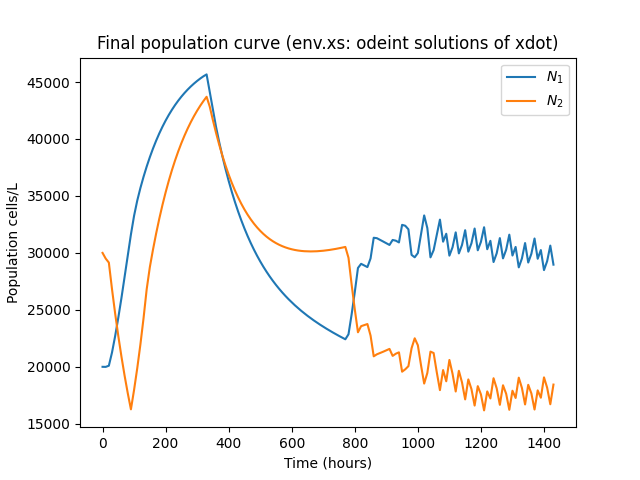
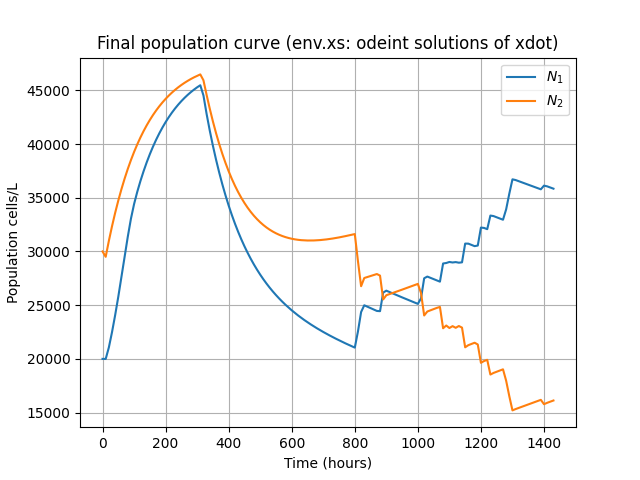
minor tidy up of Questions and Objectives; add more details to intro; add referneces;  add more detailts to fig1; updates figures; removes commented code, add more perfomance values, adds grids and title to plots #29

diff --git a/reinforcement_learning_Neythen/updated-notebooks/session3-bioreactor.py b/reinforcement_learning_Neythen/updated-notebooks/session3-bioreactor.py
@@ -16,9 +16,6 @@ import torch.optim as optim
 import torch.nn.functional as F
 
 
-# In[2]:
-
-
 def check_host_resources():
     """
     Checking RAM and GPU resources
@@ -62,13 +59,7 @@ def check_host_resources():
     #MX_HOST_MACHINE: NVIDIA RTX A200 8192MiB
 
 
-# In[3]:
-
-
-check_host_resources()
-
-
-# In[4]:
+#check_host_resources()
 
 
 #gpu_info = get_ipython().getoutput('nvidia-smi')
@@ -82,15 +73,9 @@ check_host_resources()
 #MX_HOST_MACHINE: NVIDIA RTX A200 8192MiB
 
 
-# In[5]:
-
-
 ## Setting and checking device
 device = torch.device("cuda" if torch.cuda.is_available() else "cpu")
 print(device)
-
-
-# In[6]:
 
 
 class QNetwork(nn.Module):
@@ -161,9 +146,6 @@ class ReplayBuffer:
     def __len__(self):
         """Return the current size of internal memory"""
         return len(self.memory)
-
-
-# In[7]:
 
 
 class DQN_agent():
@@ -352,10 +334,6 @@ class DQN_agent():
     
 
 
-
-# In[8]:
-
-
 class BioreactorEnv():
     '''
     Chemostat environment that can handle an arbitrary number of bacterial strains where all are being controlled
@@ -420,9 +398,6 @@ class BioreactorEnv():
         
         u = self.action_to_u(action)
         
-        #add noise
-        #Cin = np.random.normal(Cin, 0.1*Cin) #10% pump noise
-
         self.us.append(u)
 
         ts = [0, self.sampling_time]
@@ -641,23 +616,26 @@ def main():
 
     ## Train DQN_agent
     #n_episodes = 2000 #46.37mins
-    #n_episodes = 1000 #Original
+    n_episodes = 1000 #Original (22mins)
     #n_episodes = 500 #12.5mins
-    n_episodes = 100 # 2~ mins
+    #n_episodes = 200 # 4.5~ mins
+    #n_episodes = 100 # 2~ mins
     #n_episodes = 50 # 0.93mins
     #n_episodes = 20 # 0.43mins
     #n_episodes = 10 #0.23mins
     returns = agent.train(n_episodes) # list containing total reward from each episode
 
+    controlling_rate_decay=n_episodes / 11  #controlling_rate_decay=1.5
+    explore_rates = [agent.get_explore_rate(episode, controlling_rate_decay) for episode in range(1, n_episodes+1)]
+
     end_time = time.time()
     print(f'---------------------------------')
     print(f'Execution time (minutes): {(end_time - current_time)/60}')
 
-    controlling_rate_decay=n_episodes / 11  #controlling_rate_decay=1.5
-    explore_rates = [agent.get_explore_rate(episode, controlling_rate_decay) for episode in range(1, n_episodes+1)]
 
     ## Plotting and Saving plots
     fig, ax1 = plt.subplots()
+    fig.suptitle(r"Performance of the agent during training")
     plt.plot(returns, label='Return (i.e. rewards)')
     ax1.set_ylabel('Return')
     ax1.set_xlabel('Episode')
@@ -668,6 +646,7 @@ def main():
     plt.tight_layout()
     ax1.legend(loc=(0.21, 0.67))
     ax2.legend(loc=(0.6, 0.22))
+    plt.grid()
     plt.savefig('img/fig-return_explore_rate.png')
     plt.close()
     #plt.show()
@@ -679,6 +658,7 @@ def main():
     plt.legend()
     plt.xlabel('Time (hours)')
     plt.ylabel('Population cells/L')
+    plt.grid()
     plt.savefig('img/fig-population_cells.png')
     plt.close()
     #plt.show()
@@ -687,9 +667,11 @@ def main():
     fig.suptitle(r"Actions (env.us)")
     axs[0].step(np.arange(len(env.us))*sampling_time, [x[0] for x in env.us], label = '$u_1$')
     axs[0].set_ylabel("$C_{in} lower bound$")
+    axs[0].grid(True)
     axs[1].step(np.arange(len(env.us))*sampling_time, [x[1] for x in env.us], label = '$u_2$', color = 'orange')
     axs[1].set_ylabel("$C_{in} upper bound$")
     axs[1].set_xlabel("Time (hours)")
+    axs[1].grid(True)
     plt.savefig('img/fig-actions.png')
     plt.close()
     #plt.show()

diff --git a/reinforcement_learning_Neythen/updated-notebooks/session3-bioreactor.md b/reinforcement_learning_Neythen/updated-notebooks/session3-bioreactor.md
@@ -1,12 +1,14 @@
 # Session 3: Deep Q network for bioreactor optimisation
 * Author(s) for paper and code: Neythen J. Treloar
-* Author(s) for educational material: Saba Ferdous, Ed Lowther, and  Miguel Xochicale
+* Author(s) for educational material: Miguel Xochicale
+* Contributor(s): Ed Lowther and Saba Ferdous
 
 ## Questions
-* How can an agent learn Chemostat environment that can handle an arbitrary number of bacterial strains?
+* How can an agent learn bioreactor environment that can handle an arbitrary number of bacterial strains?
 
 ## Objectives
-* Learn how to use Deep Q network for Chemostat environments
+* Learn how to use Deep Q network to control of multiple interacting species in a bioreactor environment.
+
 
 ## Prerequisites
 Session 1: Reinforcement learning with tabular value functions   
@@ -16,27 +18,44 @@ Session 2: Deep reinforcement learning
 > Learn to train an agent with an much larger observation space, comprising of continuous - rather than discrete - values.
 
 ## 1. Introduction 
-In recent years, synthetic biology and industrial bioprocessing have been implementing increasingly complex systems composed of multiple, interacting microbial strains. 
+In recent years, synthetic biology and industrial bioprocessing have been implementing increasingly complex systems composed of multiple, interacting [microbial strains](https://en.wikipedia.org/wiki/Strain_(biology)). 
 This has many advantages over single culture systems, including enhanced modularization and the reduction of the metabolic burden imposed on strains. 
 Despite these advantages, the control of multi-species communities (co-cultures) within bioreactors remains extremely challenging and this is the key reason why most industrial processing still uses single cultures. 
+Some of the challenges are competitive exclusion, the long-term prediction is challenging due to genetic drift [5] and difficulty to produce stable systems as variables increase [6].
+The following case study demonstrate the efficacy of using reinforcement learning to control co-cultures within continous bioreactors [(Treloar et al. 2020)](https://doi.org/10.1371/journal.pcbi.1007783).
 
 
-### 1.1 Reinforcement learning for the control of two auxotrophic species in a chemostat. 
+### 1.1 Reinforcement learning to control two auxotrophic species in a chemostat. 
+Reinforcement learning is a branch of machine learning concerned with optimising an
+agent’s behaviour within an environment. 
+The agent learns an optimal behaviour policy by
+observing environmental states and selecting from a set of actions that change the environment’s state (Fig 1A). 
+The agent learns to maximise an external reward that is dependent on the state of the environment. 
+The training of a reinforcement learning agent is often broken
+up into episodes. 
+An **episode** is defined as a temporal sequence of states, rewards and corresponding actions (generated by the agent interacting with the environment) until a terminal state is reached. 
+The total reward obtained during an episode is called **the return**. 
+For this work, we used a data-efficient variant of reinforcement learning called Neural Fitted Q-learning [26–28].
 
-(A) The basic reinforcement learning loop; the agent interacts with its environment through actions and observes the state of the environment along with a reward. The agent acts to maximise the total reward it receives (the return). 
 
-(B) System of two auxotrophs dependent on two different nutrients, with competition over a common carbon source. 
+Fig 1 (A) The basic reinforcement learning loop; the agent interacts with its environment through actions and observes the state of the environment along with a reward. 
+The agent acts to maximise the total reward it receives (the return). 
 
-(C) Diagram of a chemostat. The state observed by the reinforcement learning agent is composed of the populations of two strains of bacteria; the actions taken by the agent control the concentration of auxotrophic nutrients flowing into the reactor.
+Fig 1 (B) System of two auxotrophs ($N_1$, and $N_2$) dependent on two
+ different auxotrophic nutrients nutrients arginine and tryptophan ($C_{1}$ and $C_{2}$), with competition over a common carbon source, glucose, ($C_{0}$). 
 
-(D) Representative system trajectory. The agent’s actions, taken at discrete time-points (circles), influence the state dynamics (black arrows), with the aim of fulfilling the reward condition (moving to the centre of the green circle). The
-state is comprised of the (continuously-defined) abundance of two microbial populations, N1 and N2. The agent’s actions dictate the rate at which auxotrophic nutrients flow into the reactor. 
+Fig 1 (C) Diagram of a chemostat, also knows as [biorector](https://en.wikipedia.org/wiki/Bioreactor). 
+The state observed by the reinforcement learning agent is composed of the populations of two strains of bacteria; the actions taken by the agent control the concentration of auxotrophic nutrients flowing into the reactor.
+
+Fig 1 (D) Representative system trajectory. The agent’s actions, taken at discrete time-points (blue circles), influence the state dynamics (black arrows), with the aim of fulfilling the reward condition (moving to the centre of the green circle). 
+The state is comprised of the (continuously-defined) abundance of two microbial populations, $N_{1}$ and $N_{2}$. 
+The agent’s actions dictate the rate at which auxotrophic nutrients flow into the reactor. 
 At each time-step, the agent’s reward is dependent on the distance between the current state and the target state.
 
 ![fig](img/rl-chemostat.png)
-**Figure.** Population cells 
+**Figure 1.** RL for the control of two auxotrophic species in a chemostat.
 
-In the following sections, reinforcement learning (RL) combined with neural networks is applied to the control of multiple interacting species in a bioreactor [1].
+
 
 ## 2. Setting up DQN agent
 ### 2.1. QNetwork.   
@@ -129,11 +148,9 @@ We can configure how the agent learns from its environment with the following va
 
 The neural network, $QNetwork$, is used to estimate **the value function**. 
 $QNetwork$ consisting of 20 nodes [27] where each node use a RELU activation function.
-The input layer had $n$ nodes, one for each **microbial strain**; the linear output layer had $2_n$ nodes corresponding to each **variable action**.
+The input layer had $n$ nodes, one for each **microbial strain**; the linear output layer had $2^n$ nodes corresponding to each **variable action**.
 Adam optimiser is used to dynamically adapt the learning rate which is common in RL. 
 The **populations levels** were scaled by a factor of `10e-5` before being entered the neural network  and generated values between 0 to 1 and prevent instability.
-"[27] Riedmiller M. Neural fitted Q iteration–first experiences with a data efficient neural reinforcement learn-
-ing method. In: European Conference on Machine Learning. Springer; 2005. p. 317–328."
 
 #### 2.3.1 Initialisation
 `DQN_agent` contains two instances of `Qnetwork`: $Q$ and $Q_{target}$ and adam optimiser for $Q$ network which copies parameters to $Q_{target}$ network and replay memory with `ReplayerBuffer()` class.
@@ -441,9 +458,6 @@ class BioreactorEnv():
         
         u = self.action_to_u(action)
         
-        #add noise
-        #Cin = np.random.normal(Cin, 0.1*Cin) #10% pump noise
-
         self.us.append(u)
 
         ts = [0, self.sampling_time]
@@ -669,19 +683,32 @@ def reward_function(x):
 ![fig](img/fig-return_explore_rate.png)  
 **Figure.** Return and explore rate. Performance of the agent improves and the explore rate decreases during training.
 
-![fig](img/fig-population_cells.png)  
-**Figure.** Population cells 
-
 ![fig](img/fig-actions.png)  
 **Figure.** Actions
 
+![fig](img/fig-population_cells.png)  
+**Figure.** Population cells 
+
+
 ## 6. Assignments 
+1. Is the RL robust to different initial conditions and targets? 
 1. Change intervals of reward_function using "[N1, N2] = [20, 30] × 10^9 cells L−1." to add your conclusions on how the performance of the agent improves or worsened and the explore rate decreases during training. Plot results with returns and explore_rates).
 2. How `N_1` and `N_2` from env.xs maintain optimal level for product production (plot results with plt.plot(np.arange(len(env.xs)) `sampling_time`, [x[0] for x in env.xs], label = '$N_1$')).
 3. How RL agent is affected if you use "infrequent sampling" (see (Treloar et al, 2020) for further details on infrequent sampling )?
 
 ## 7. References
-> [1] Treloar, Neythen J., Alex JH Fedorec, Brian Ingalls, and Chris P. Barnes. "Deep reinforcement learning for the control of microbial co-cultures in bioreactors." PLoS computational biology 16, no. 4 (2020): e1007783. [DOI](https://journals.plos.org/ploscompbiol/article?id=10.1371/journal.pcbi.1007783) [google-citations](https://scholar.google.com/scholar?oi=bibs&hl=en&cites=17698721817212738220)
+[1] Treloar, Neythen J., Alex JH Fedorec, Brian Ingalls, and Chris P. Barnes. "Deep reinforcement learning for the control of microbial co-cultures in bioreactors." PLoS computational biology 16, no. 4 (2020): e1007783. [DOI](https://journals.plos.org/ploscompbiol/article?id=10.1371/journal.pcbi.1007783); [google-citations](https://scholar.google.com/scholar?oi=bibs&hl=en&cites=17698721817212738220)
+
+[5] Croughan, Matthew S., Konstantin B. Konstantinov, and Charles Cooney. "The future of industrial bioprocessing: batch or continuous?." Biotechnology and bioengineering 112, no. 4 (2015): 648-651. [google-citations](https://scholar.google.com/scholar?cites=18103893455237911440&as_sdt=2005&sciodt=0,5&hl=en); [DOI](https://analyticalsciencejournals.onlinelibrary.wiley.com/doi/full/10.1002/bit.25529)
+
+
+[6] Shong, Jasmine, Manuel Rafael Jimenez Diaz, and Cynthia H. Collins. "Towards synthetic microbial consortia for bioprocessing." Current Opinion in Biotechnology 23, no. 5 (2012): 798-802. [google-citations](https://scholar.google.com/scholar?cites=1551248015071712309&as_sdt=2005&sciodt=0,5&hl=en); [DOI](https://www.sciencedirect.com/science/article/abs/pii/S0958166912000341)
+
+[26] Sootla, Aivar, Natalja Strelkowa, Damien Ernst, Mauricio Barahona, and Guy-Bart Stan. "Toggling a genetic switch using reinforcement learning." arXiv preprint arXiv:1303.3183 (2013). [google-citations](https://scholar.google.com/scholar?cites=12545971767986048065&as_sdt=2005&sciodt=0,5&hl=en); [arxiv](https://arxiv.org/abs/1303.3183)
+
+[27] Riedmiller, Martin. "Neural fitted Q iteration–first experiences with a data efficient neural reinforcement learning method." In Machine Learning: ECML 2005: 16th European Conference on Machine Learning, Porto, Portugal, October 3-7, 2005. Proceedings 16, pp. 317-328. Springer Berlin Heidelberg, 2005. [google-citations](https://scholar.google.com/scholar?cites=8156369906861868334&as_sdt=2005&sciodt=0,5&hl=en); [DOI](https://doi.org/10.1007/11564096_32)
+
+[28] Lampe, Thomas, and Martin Riedmiller. "Approximate model-assisted neural fitted q-iteration." In 2014 International Joint Conference on Neural Networks (IJCNN), pp. 2698-2704. IEEE, 2014. [google-scholar](https://scholar.google.com/scholar?cites=15116783815853678916&as_sdt=2005&sciodt=0,5&hl=en); [DOI](https://ieeexplore.ieee.org/abstract/document/6889733/)
 
 
 
